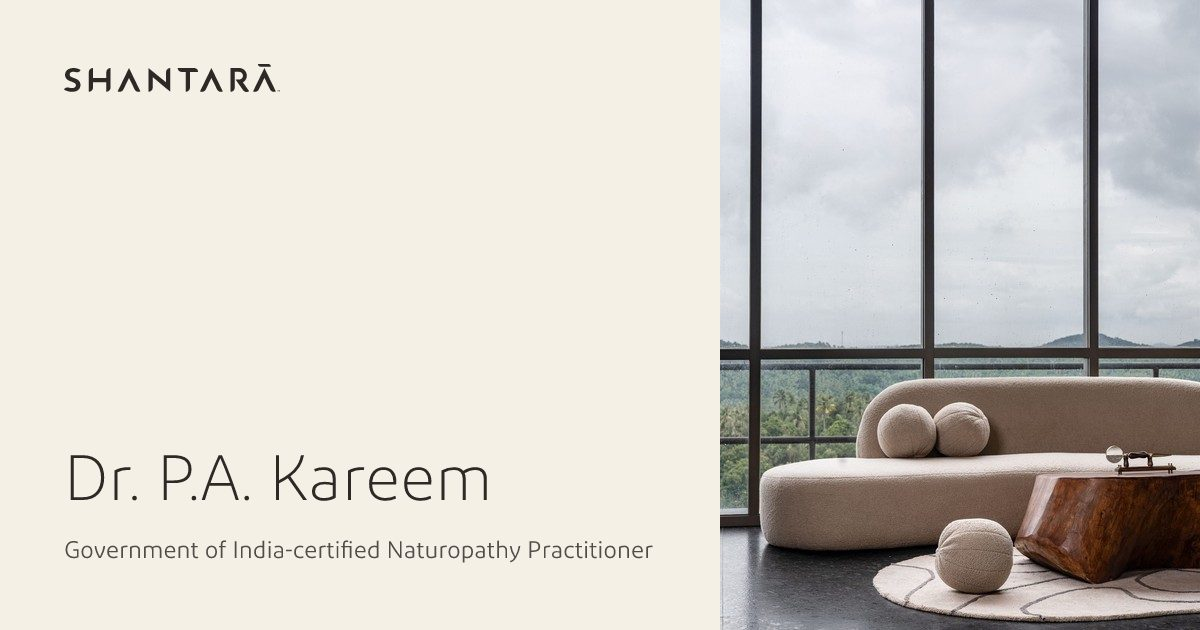
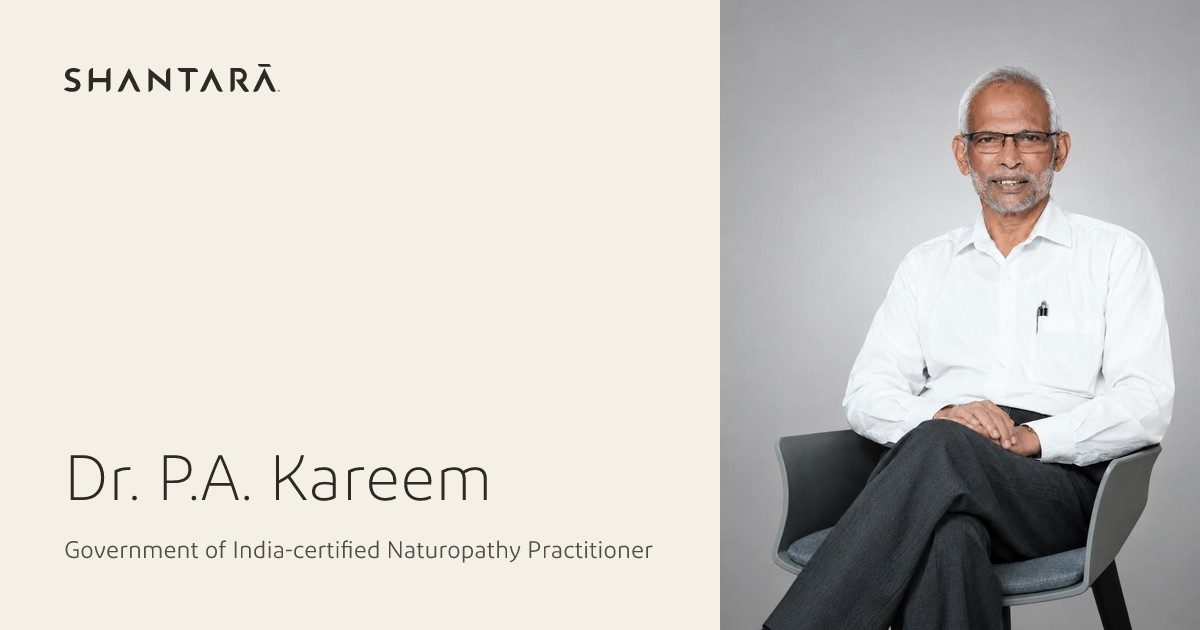
Add Dr. P.A. Kareem portrait across content, kit screens and OG samples.
Wire photo_profile and featured_image so PeopleRow no longer falls back to initials, and regenerate the doctor share image from his portrait.

diff --git a/components/_specimen.html b/components/_specimen.html
@@ -54,7 +54,7 @@
       } = NS;
       const P = "../assets/photos/";
       const doctors = [
-        { name: "Dr. P.A. Kareem", role: "Founder, Chairman & Chief Naturopathy Consultant", detail: "Government of India-certified Naturopathy Practitioner" },
+        { name: "Dr. P.A. Kareem", role: "Founder, Chairman & Chief Naturopathy Consultant", detail: "Government of India-certified Naturopathy Practitioner", src: P + "doctor-pa-kareem-portrait-cropped.jpeg" },
         { name: "Dr. Bahja Janu", role: "Medical Director", src: P + "doctor-bahja-janu-portrait-cropped.jpeg" },
       ];
       const programmes = [
@@ -392,7 +392,7 @@
         case "AuthorCard":
           return <div className="stack" style={{ maxWidth: 720, gap: 32 }}>
             <AuthorCard name="Dr. Bahja Janu" role="Medical Director" src={P + "doctor-bahja-janu-portrait-cropped.jpeg"} href="#" action={<TextLink href="#">About our doctors</TextLink>} />
-            <AuthorCard name="Dr. P.A. Kareem" role="Founder, Chairman & Chief Naturopathy Consultant" href="#" />
+            <AuthorCard name="Dr. P.A. Kareem" role="Founder, Chairman & Chief Naturopathy Consultant" src={P + "doctor-pa-kareem-portrait-cropped.jpeg"} href="#" />
           </div>;
         case "ReviewedBy":
           return <div className="stack" style={{ maxWidth: 720, gap: 32 }}>

diff --git a/components/sections/sections.card.html b/components/sections/sections.card.html
@@ -77,11 +77,11 @@ function Demo(){
 <Label name="PanoramaCaption" note="deck slide 5 · 21:9, 4:5 on phones, no button" />
 <PanoramaCaption src={P + "valley.jpg"} alt="The Chennamangallur valley from the hilltop" title="Overlooking the Chennamangallur valley" />
 
-<Label name="Section + PeopleRow" note="deck slide 7 · initials until a photograph exists" />
+<Label name="Section + PeopleRow" note="deck slide 7 · 4:5 portraits from content/doctors" />
 <Section>
   <PeopleRow title="Your programme is planned by our doctors."
     people={[
-      { name: "Dr. P.A. Kareem", role: "Founder, Chairman & Chief Naturopathy Consultant", detail: "Government of India-certified Naturopathy Practitioner" },
+      { name: "Dr. P.A. Kareem", role: "Founder, Chairman & Chief Naturopathy Consultant", detail: "Government of India-certified Naturopathy Practitioner", src: P + "doctor-pa-kareem-portrait-cropped.jpeg" },
       { name: "Dr. Bahja Janu", role: "Medical Director", src: P + "doctor-bahja-janu-portrait-cropped.jpeg" },
     ]}
     action={<TextLink href="#">About Shantara</TextLink>} />

diff --git a/components/editorial/editorial.card.html b/components/editorial/editorial.card.html
@@ -121,9 +121,9 @@ function Demo(){
         facts={[{ label: "Since 2000", text: "The evolution of Hygiene Nature Cure Hospital." }, { label: "The setting", text: "A hilltop above the Chennamangallur valley." }]} />
     </div>
     <div style={{ display: "flex", flexDirection: "column", gap: "var(--space-6)" }}>
-      <L>PortraitFrame — initials until a photograph exists</L>
+      <L>PortraitFrame — 4:5 from content/doctors</L>
       <div className="portraits">
-        <PortraitFrame name="Dr. P.A. Kareem" role="Founder, Chairman & Chief Naturopathy Consultant" />
+        <PortraitFrame src={P + "doctor-pa-kareem-portrait-cropped.jpeg"} name="Dr. P.A. Kareem" role="Founder, Chairman & Chief Naturopathy Consultant" />
         <PortraitFrame src={P + "doctor-bahja-janu-portrait-cropped.jpeg"} name="Dr. Bahja Janu" role="Medical Director" />
       </div>
     </div>

diff --git a/content/kit.js b/content/kit.js
@@ -1266,6 +1266,7 @@ window.ShantaraContent = {
       "slug": "pa-kareem",
       "full_name": "Dr. P.A. Kareem",
       "role": "Founder, Chairman & Chief Naturopathy Consultant",
+      "photo_profile": "doctor-pa-kareem-portrait-cropped.jpeg",
       "qualification": "Government of India-certified Naturopathy Practitioner",
       "years_practice": "26+",
       "publications_note": "Author of 17 books on naturopathy (Malayalam, English, Arabic)",
@@ -1275,7 +1276,11 @@ window.ShantaraContent = {
       ],
       "locale": "en",
       "source": "handbook",
-      "status": "published"
+      "status": "published",
+      "featured_image": {
+        "src": "doctor-pa-kareem-portrait",
+        "alt": "Dr. P.A. Kareem"
+      }
     }
   ],
   "articles": [

diff --git a/components/sections/PeopleRow.prompt.md b/components/sections/PeopleRow.prompt.md
@@ -4,7 +4,7 @@ A statement, then two to four doctors in the same 4:5 portrait framing (deck sli
 <PeopleRow
   title="Your programme is planned by our doctors."
   people={[
-    { name: "Dr. P.A. Kareem", role: "Founder, Chairman & Chief Naturopathy Consultant", detail: "Government of India-certified Naturopathy Practitioner" },
+    { name: "Dr. P.A. Kareem", role: "Founder, Chairman & Chief Naturopathy Consultant", detail: "Government of India-certified Naturopathy Practitioner", src: "/assets/photos/doctor-pa-kareem-portrait-cropped.jpeg" },
     { name: "Dr. Bahja Janu", role: "Medical Director", src: "/assets/photos/doctor-bahja-janu-portrait-cropped.jpeg" },
   ]}
   action={<TextLink href="/en/about">About Shantara</TextLink>}

diff --git a/components/editorial/PortraitFrame.prompt.md b/components/editorial/PortraitFrame.prompt.md
@@ -2,7 +2,7 @@ One framing for every doctor: 4:5 on a neutral ground, same crop, then name, rol
 
 ```jsx
 <PortraitFrame src="/assets/photos/doctor-bahja-janu-portrait-cropped.jpeg" name="Dr. Bahja Janu" role="Medical Director" />
-<PortraitFrame name="Dr. P.A. Kareem" role="Founder, Chairman & Chief Naturopathy Consultant" />
+<PortraitFrame src="/assets/photos/doctor-pa-kareem-portrait-cropped.jpeg" name="Dr. P.A. Kareem" role="Founder, Chairman & Chief Naturopathy Consultant" />
 ```
 
 **No photograph yet?** It shows the person's initials on the same ground — never a stock face or an empty box. **Detail** only from `content/doctors/`; leave it out while a field is `[TO CONFIRM]`. Put portraits in `PeopleRow`.

diff --git a/assets/photos/README.md b/assets/photos/README.md
@@ -17,6 +17,7 @@ Full seated studio shots (`*-portrait.jpg`, 1920×2880) and matching square clos
 | Portrait (full) | Close-up (square) | Who |
 | --- | --- | --- |
 | `doctor-bahja-janu-portrait` | `doctor-bahja-janu-portrait-cropped.jpeg` | Dr. Bahja Janu (Medical Director; content id `bahja-janu`) |
+| `doctor-pa-kareem-portrait` | `doctor-pa-kareem-portrait-cropped.jpeg` | Dr. P.A. Kareem (Founder; content id `pa-kareem`) |
 | `doctor-gangrei-gangmei-portrait` | `doctor-gangrei-gangmei-portrait-cropped.jpeg` | Dr. Gangrei Gangmei |
 | `doctor-keerthana-portrait` | `doctor-keerthana-portrait-cropped.jpeg` | Dr. Keerthana |
 | `doctor-sara-portrait` | `doctor-sara-portrait-cropped.jpeg` | Dr. Sara |

diff --git a/ui_kits/website/skill-og-images.md b/ui_kits/website/skill-og-images.md
@@ -124,7 +124,7 @@ An article's `category` is the subtype (Clinical Guide, Guest Story, Food & Reci
 
 ![Dr. Bahja Janu. The line is the role, because no qualification is recorded.](../../templates/og-images/samples/doctor.jpg)
 
-![Dr. P.A. Kareem. The line is the qualification. No portrait is on file, so the photograph is the valley.](../../templates/og-images/samples/doctor-kareem.jpg)
+![Dr. P.A. Kareem. The line is the qualification. The photograph is his portrait.](../../templates/og-images/samples/doctor-kareem.jpg)
 
 ![A Clinical Guide. The search title is longer. The picture uses a one-line headline, and the lead is the line.](../../templates/og-images/samples/editorial.jpg)
 
